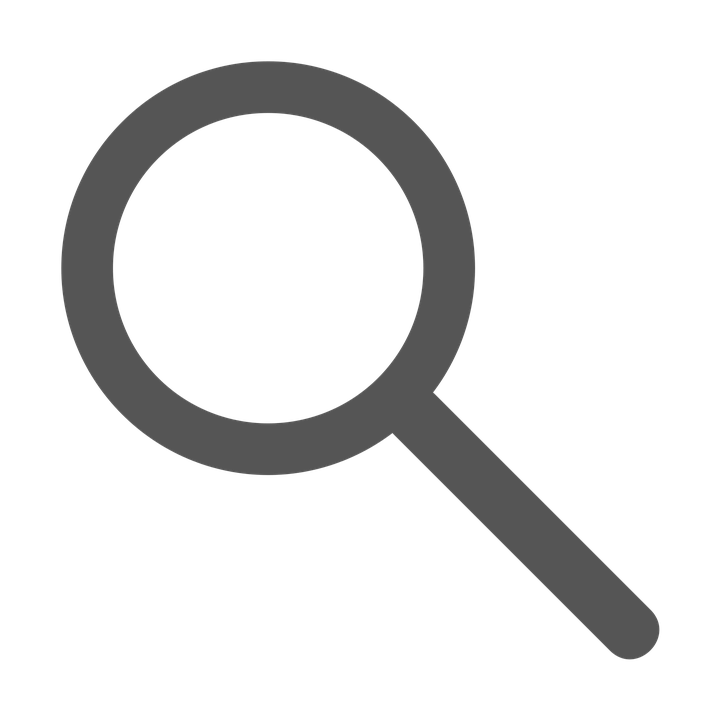
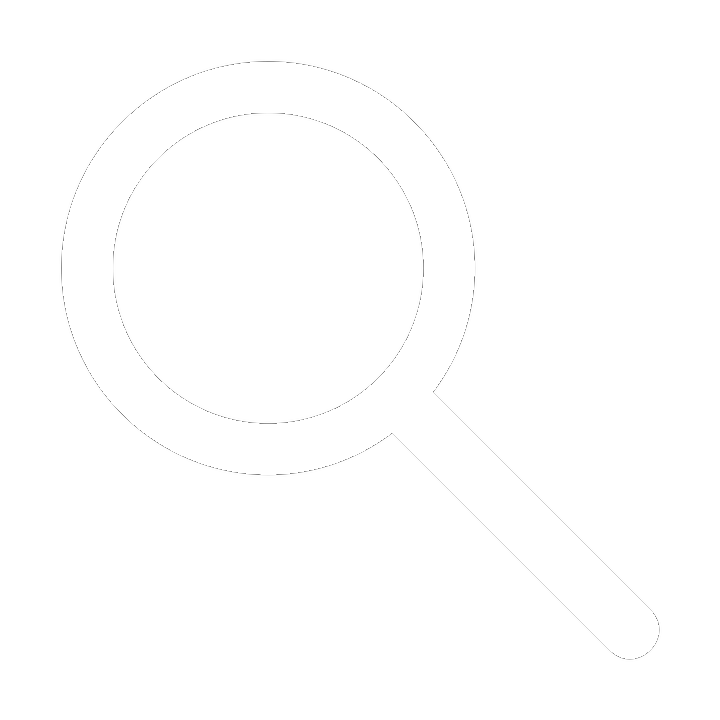
Nouveaux header

Changed region(s): [[0.0611, 0.0611, 0.9167, 0.9167]]

diff --git a/style.css b/style.css
@@ -1,42 +1,113 @@
 
 /*Module*/
+h2{margin: 0!important;}
 body {font-family: Arial, Helvetica, sans-serif;background: linear-gradient(black, #220202);margin: 0;padding: 0;background-attachment: fixed;} /*modification général sur toutes les pages du site*/
 .container {margin: auto;padding-top: 70px;}
+
 .box {width: 75%;margin: auto;padding: 10px;background-color: white;border-radius: 20px;} /*Ajoute un fond blanc avec les bord arrondie */
-.Boutton_Menu {padding: 7px 17px;border-radius: 3px;background: #e50914;border: 0;}
-.Boutton_Menu a {text-decoration: none;color:white;}
-h2{margin: 0!important;}
 
-/* CSS Header
-header {position: fixed;width: 100%;background-color:#393939;z-index: 2;}
-header ul {list-style-type: none;margin: 0;overflow: hidden;padding: 5px 0 5px 0;}
 
-header ul li:first-child{float: left!important;} 
-header ul li:first-child img {height: 45px;}
-header ul li:first-child a {padding: 0;}
+.Boutton_Menu {
+    padding: 7px 17px;
+    border-radius: 3px;
+    background: #e50914;
+    border: 0;
+}
 
-header li {float: right;} 
-Header li a {display: block;color: white;padding: 14px 16px;text-decoration: none;}
-Header li:not(:nth-child(2)) {margin-right: 10px;}
-Header li:not(:first-child) a {display: inline-block;}
-Header li:not(:first-child) {height: 46px;line-height: 46px;white-space: nowrap;}
-*/
+.Boutton_Menu a {
+    text-decoration: none;
+    color: white;
+}
+
+.Boutton_Recherche {
+    padding: 7px 17px;
+    border-radius: 0 3px 3px 0;
+    background: #e50914;
+    border: 0;
+    height: 18px;
+    margin-left: 0 !important;
+}
+
+.Boutton_Recherche img {
+    height: 18px;
+}
+
+
+.Barre_Recherche input {
+    padding: 7px 17px;
+    border: 1px solid #b7b7b7;
+    border-right-width: 0;
+    border-radius: 3px 0 0 3px;
+    background: rgba(252, 252, 252, 1);
+    box-shadow: 2px 2px 2px 0 rgba(0, 0, 0, 0.2) inset;
+    text-shadow: 1px 1px 0 rgba(255, 255, 255, 0.66);
+    display: inline-block;
+    height: 32px;
+}
 
 /* CSS Header*/
-.Head {display:flex;max-height: 98px;}
+.Head {
+    display: flex;
+    max-height: 98px;
+}
+
+.Head .Bouton {
+    height: 60px;
+    display: flex;
+}
+
+.Head .Bouton ul {
+    list-style-type: none;
+    margin: 0;
+    overflow: hidden;
+    padding: 0;
+    margin: auto 0;
+    margin-left: auto;
+    margin-right: 25%;
+}
+
+.Head .Bouton li {
+    float: right;
+    margin-left: 10px;
+}
 
 
-.Head .Bouton {height: 60px;display: flex;}
-.Head .Bouton ul {list-style-type: none;margin: 0;overflow: hidden;padding: 0;margin: auto 0;}
-.Head .Bouton li {float: right;}
+.Head .HorsLogo {
+    background-color: #393939;
+    width: 75%;
+}
 
+.Head .Logo {
+    border-radius: 0 0 20px;
+    background-color: #393939;
+    width: 25%;
+}
 
-.Head .HorsLogo {background-color:#393939;width: 75%;}
-.Head .Logo {border-radius: 0 0 20px;background-color:#393939;width: 25%; }
-.Head .Logo img {height: 80%;margin: auto;}
-.Head .Logo a {float: right;margin-right: 20px;height: 100%;display: flex;}
-.Head .BarreRouge {height: 18px;border-radius: 20px 0 0;background-color:#e50914; border-left: 2px solid black;border-top: 2px solid black;box-shadow: 1px 2px 5px 0 rgba(0,0,0,0.5) inset;}
-.Head .BarreVide {height: 18px;background-color: black;}
+.Head .Logo img {
+    height: 80%;
+    margin: auto;
+}
+
+.Head .Logo a {
+    float: right;
+    margin-right: 20px;
+    height: 100%;
+    display: flex;
+}
+
+.Head .BarreRouge {
+    height: 18px;
+    border-radius: 20px 0 0;
+    background-color: #e50914;
+    border-left: 2px solid black;
+    border-top: 2px solid black;
+    box-shadow: 1px 2px 5px 0 rgba(0, 0, 0, 0.5) inset;
+}
+
+.Head .BarreVide {
+    height: 18px;
+    background-color: black;
+}
 
 
 /*Page accueil*/

diff --git a/Header.php b/Header.php
@@ -1,35 +1,3 @@
-
-<header>
-<!--<?php //session_start ();?>
-    <ul class="container">
-    <li class="Fl"><a href="PageAccueil.php"><img src="/Cinevent/images/logo.png"></a></li>
-        <?php if (isset($_SESSION['email']))
-        {?>
-
-            
-            <li><a class="Boutton_Menu" href="script/deconnexion.php">Deconnexion</a></li>
-            <li><a class="Boutton_Menu" href="PagePanier.php">Panier</a></li>
-        
-        <?php
-        }
-        else
-        {
-            ?>
-
-            
-                  <li><a class="Boutton_Menu" href="PageConnexion.php">Connexion</a></li>
-        <?php
-    }
-    ?>
-
-        <li><a class="Boutton_Menu" href="PageContact.php">Contact</a></li>
-        <li><a class="Boutton_Menu" href="PageAPropos.php">a propos</a></li>
-
-        <li><input type="search" id="site-search" name="q" aria-label="Search through site content"><a class="Boutton_Menu">Search</a></li>
-    </ul>
-</header>-->
-
-
 <header>
 <?php session_start ();?>
 <div class="Head">
@@ -38,10 +6,24 @@
     <div class="HorsLogo">
         <div class="Bouton">
         <ul>
-            <li class="Boutton_Menu"><a href="PageContact.php">Contact</a></li>
+
+        <?php if (isset($_SESSION['email']))
+        {?>
+            <li class="Boutton_Menu"><a href="script/deconnexion.php">Deconnexion</a></li>
+        <?php
+        }
+        else
+        {
+        ?>
+            <li class="Boutton_Menu"><a href="PageConnexion.php">Connexion</a></li>
+        <?php
+        }
+        ?>
+
+          <li class="Boutton_Menu"><a href="PageContact.php">Contact</a></li>
             <li class="Boutton_Menu"><a href="PageAPropos.php">a propos</a></li>
-            <!--<li><img src="/GerardRadeCinevent/images/loupe.png"></li>-->
-            <li><input type="search"></li>
+            <li class="Boutton_Recherche"><img src="/GerardRadeCinevent/images/loupe.png"></li>
+            <li class="Barre_Recherche"><input type="search" ></li>
         </ul>
     </div>
 
